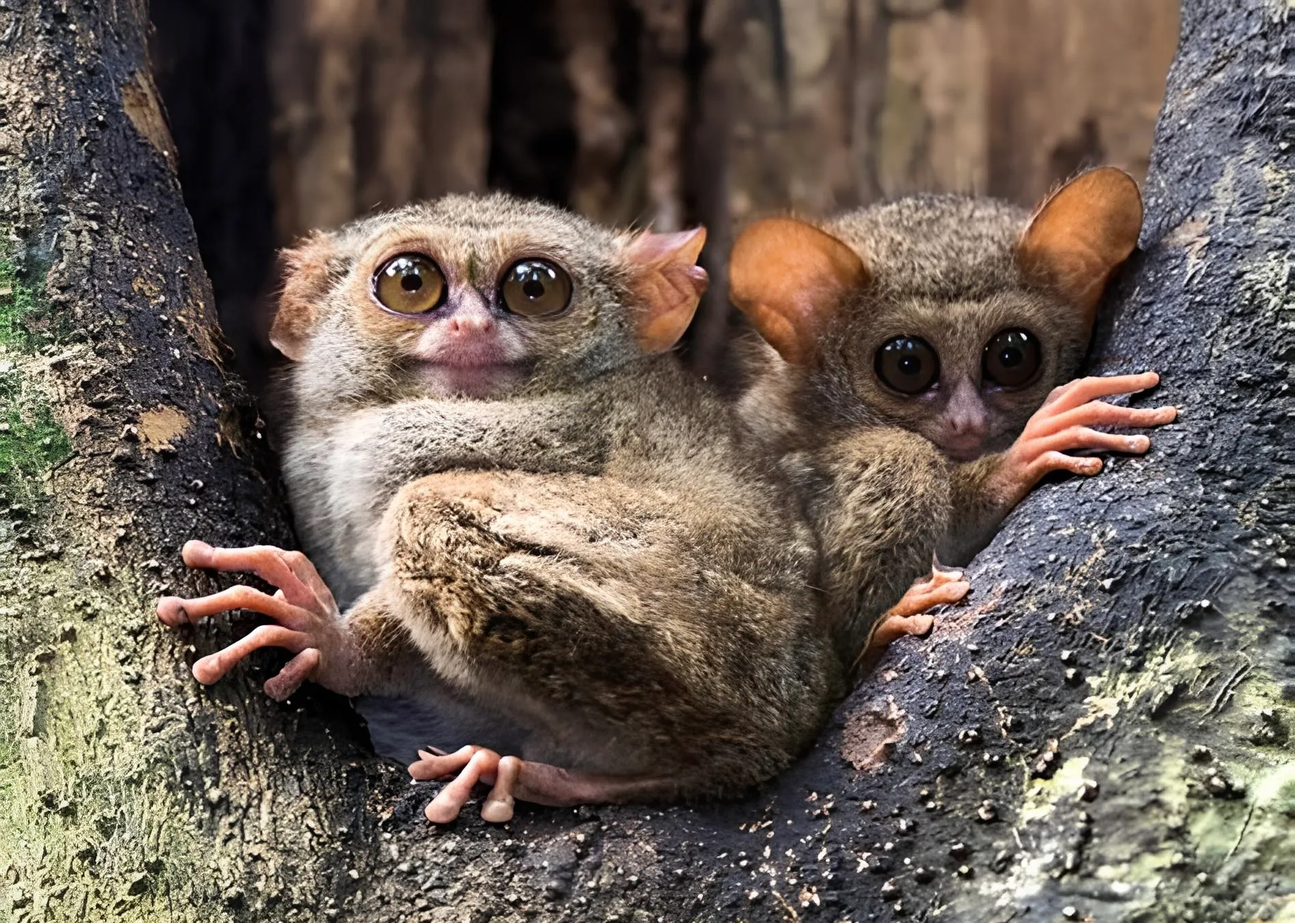
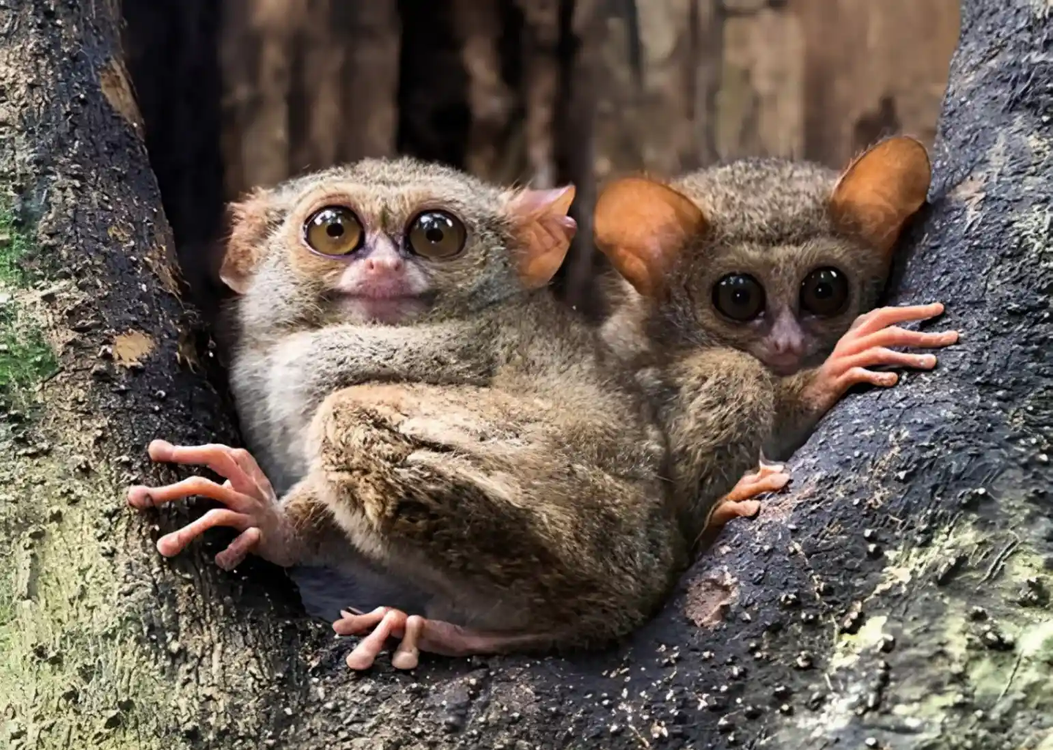
debug 1

diff --git a/place.html b/place.html
@@ -22,9 +22,9 @@
     <main>
         <div class="hero">
             <picture>
-                <source srcset="images/tarsier_duo_large.webp" media="(min-width: 1000px)">
-                <source srcset="images/tarsier_duo_medium.webp" media="(min-width: 500px)">
-                <img src="images/tarsier_small.webp" alt="tarsier" width="360" height="472">
+                <source srcset="images/tarsier_duo_large.webp" media="(min-width: 1000px)" alt="image of two tarsiers">
+                <source srcset="images/tarsier_duo_medium.webp" media="(min-width: 500px)" alt="image of two tarsiers">
+                <img src="images/tarsier_small.webp" alt="image of a tarsier" width="360" height="472">
             </picture>
         </div>
         <section id="data">

diff --git a/scripts/place.js b/scripts/place.js
@@ -14,7 +14,7 @@ const temperature = 10;
 const windSpeed = 5;
 
 if (temperature <= 10 && windSpeed > 4.8) {
-    document.querySelector('#wind-chill').textContent = calculateWindChill(temperature, windSpeed).toFixed(1) + '°C';
+    document.querySelector('#wind-chill').textContent = calculateWindChill(temperature, windSpeed).toFixed(1);
 }
 else {
     document.querySelector('#wind-chill').textContent = 'N/A';

diff --git a/styles/place.css b/styles/place.css
@@ -48,6 +48,10 @@ h2 {
     grid-column: 1/3;
 }
 
+#wind-chill::after {
+    content: '°C';
+}
+
 #weather-icon {
     width: 20%;
     height: auto;
